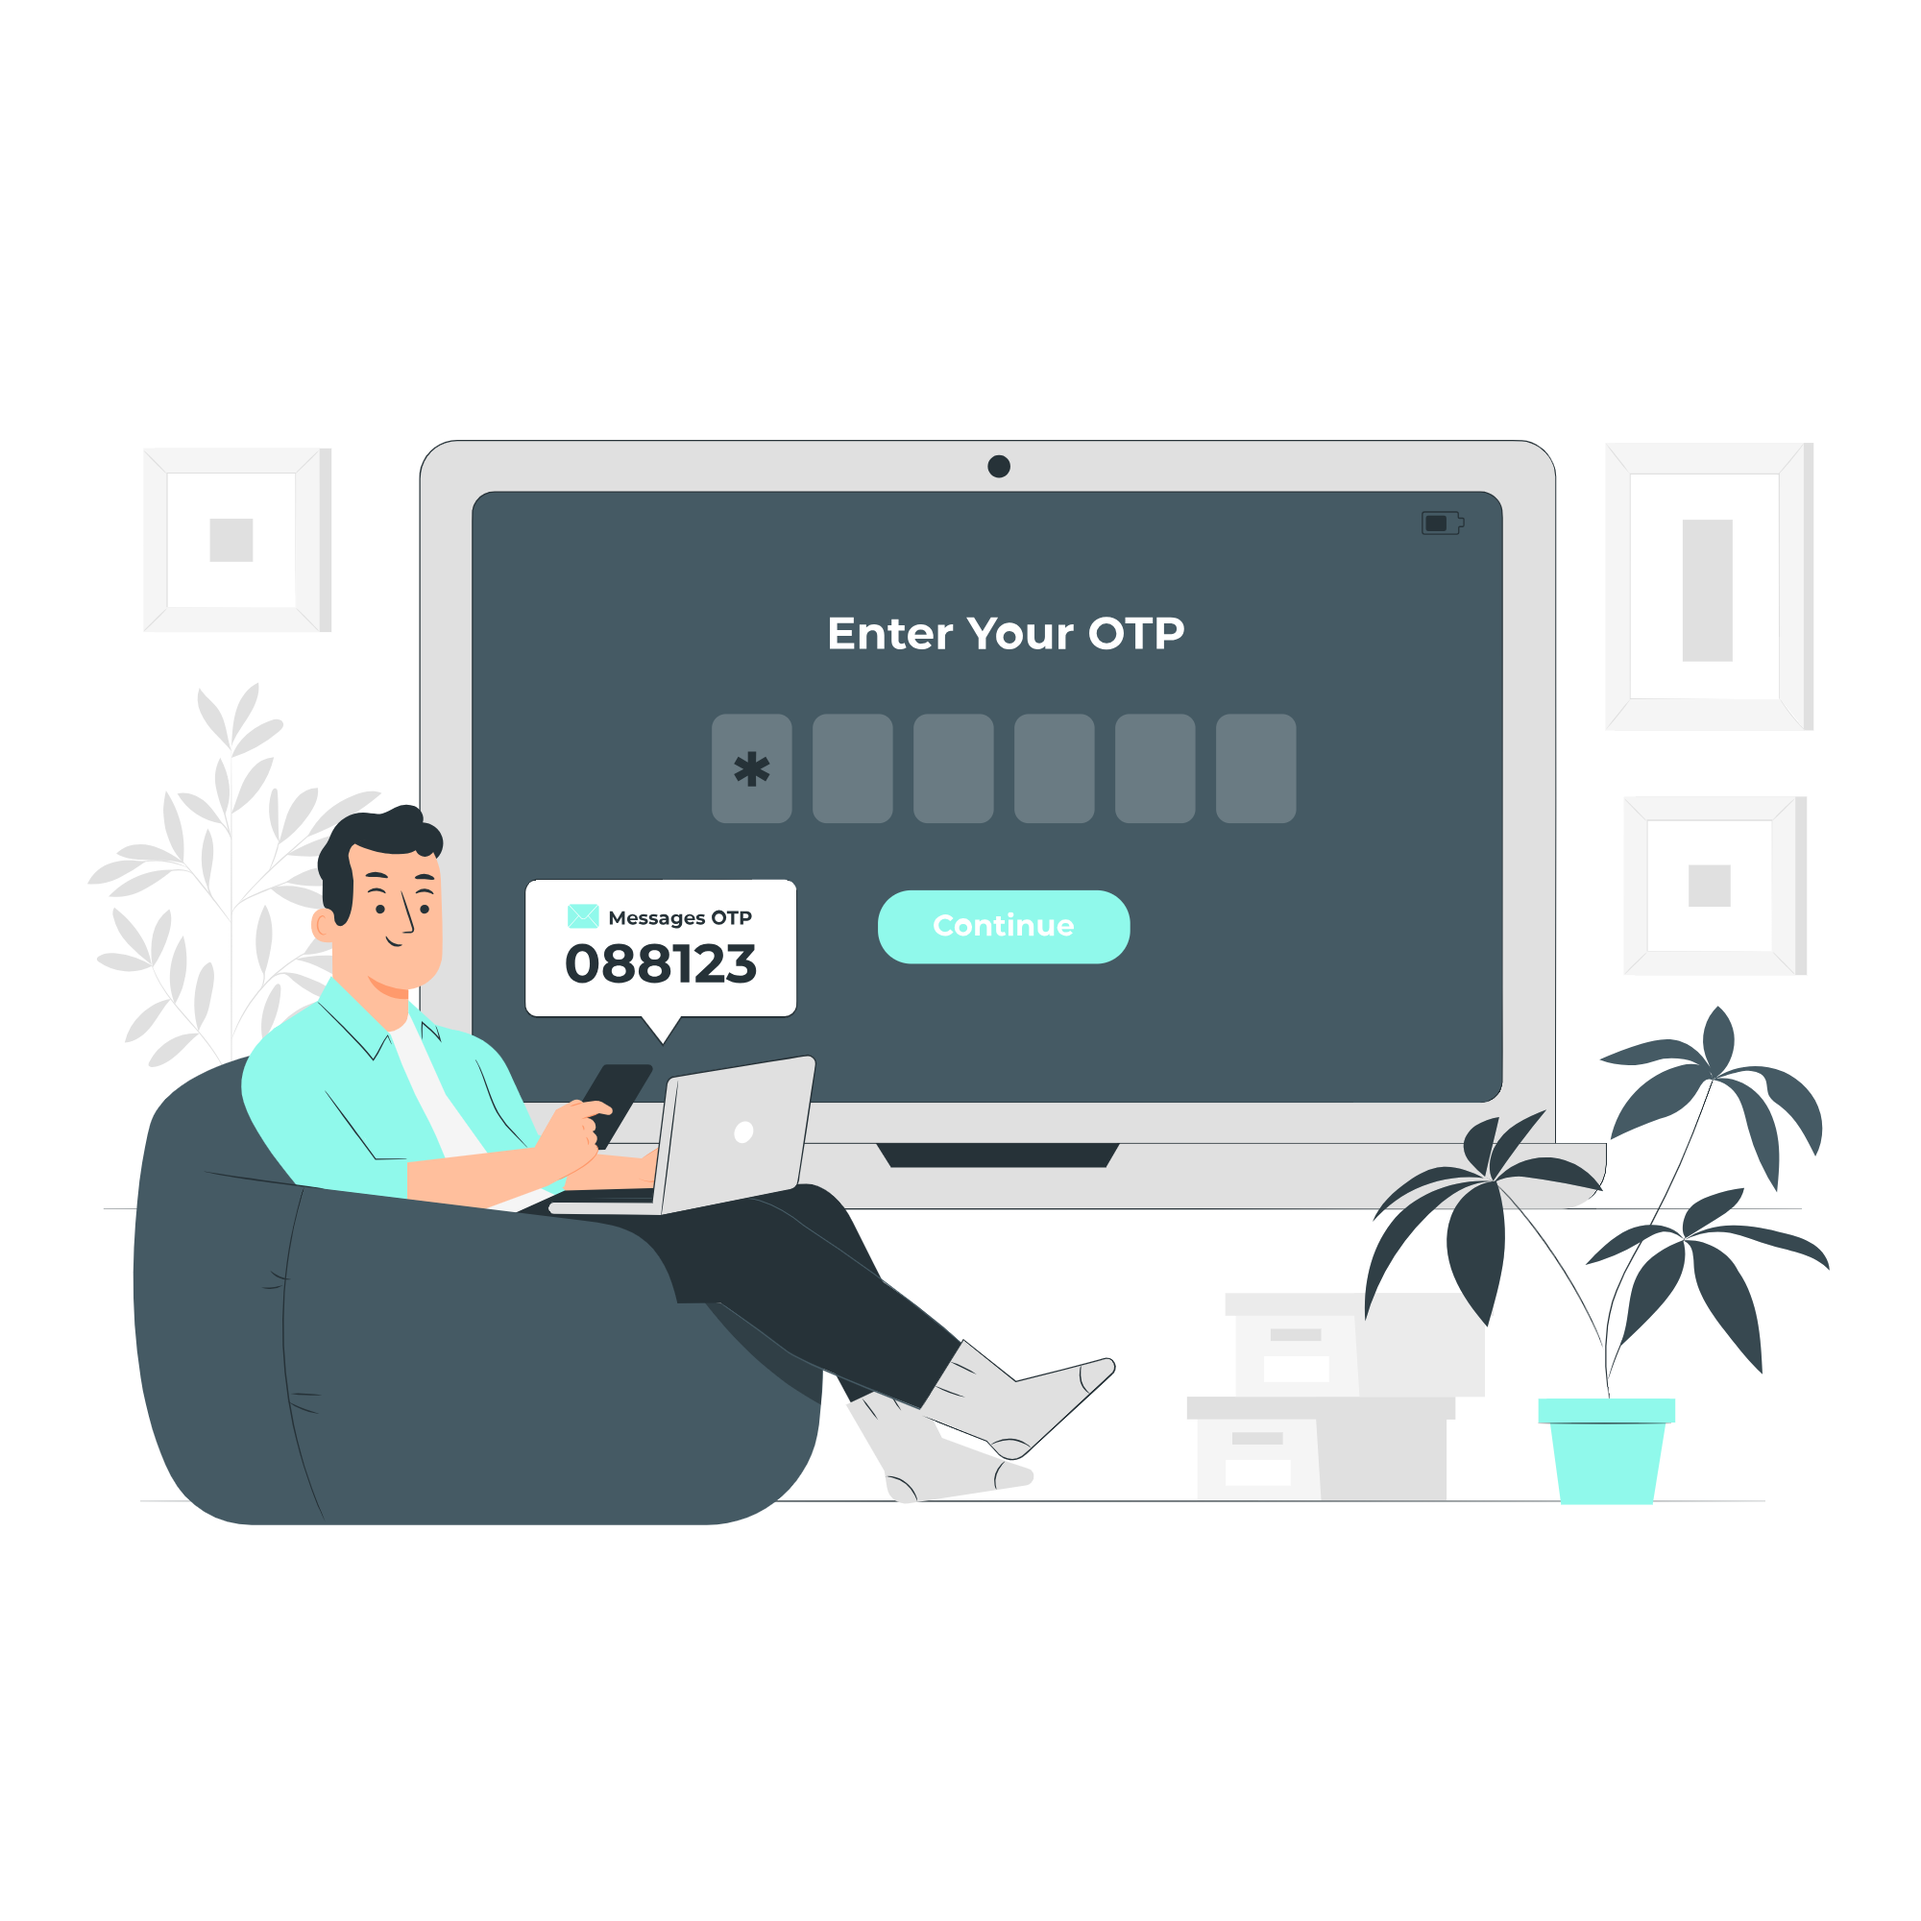
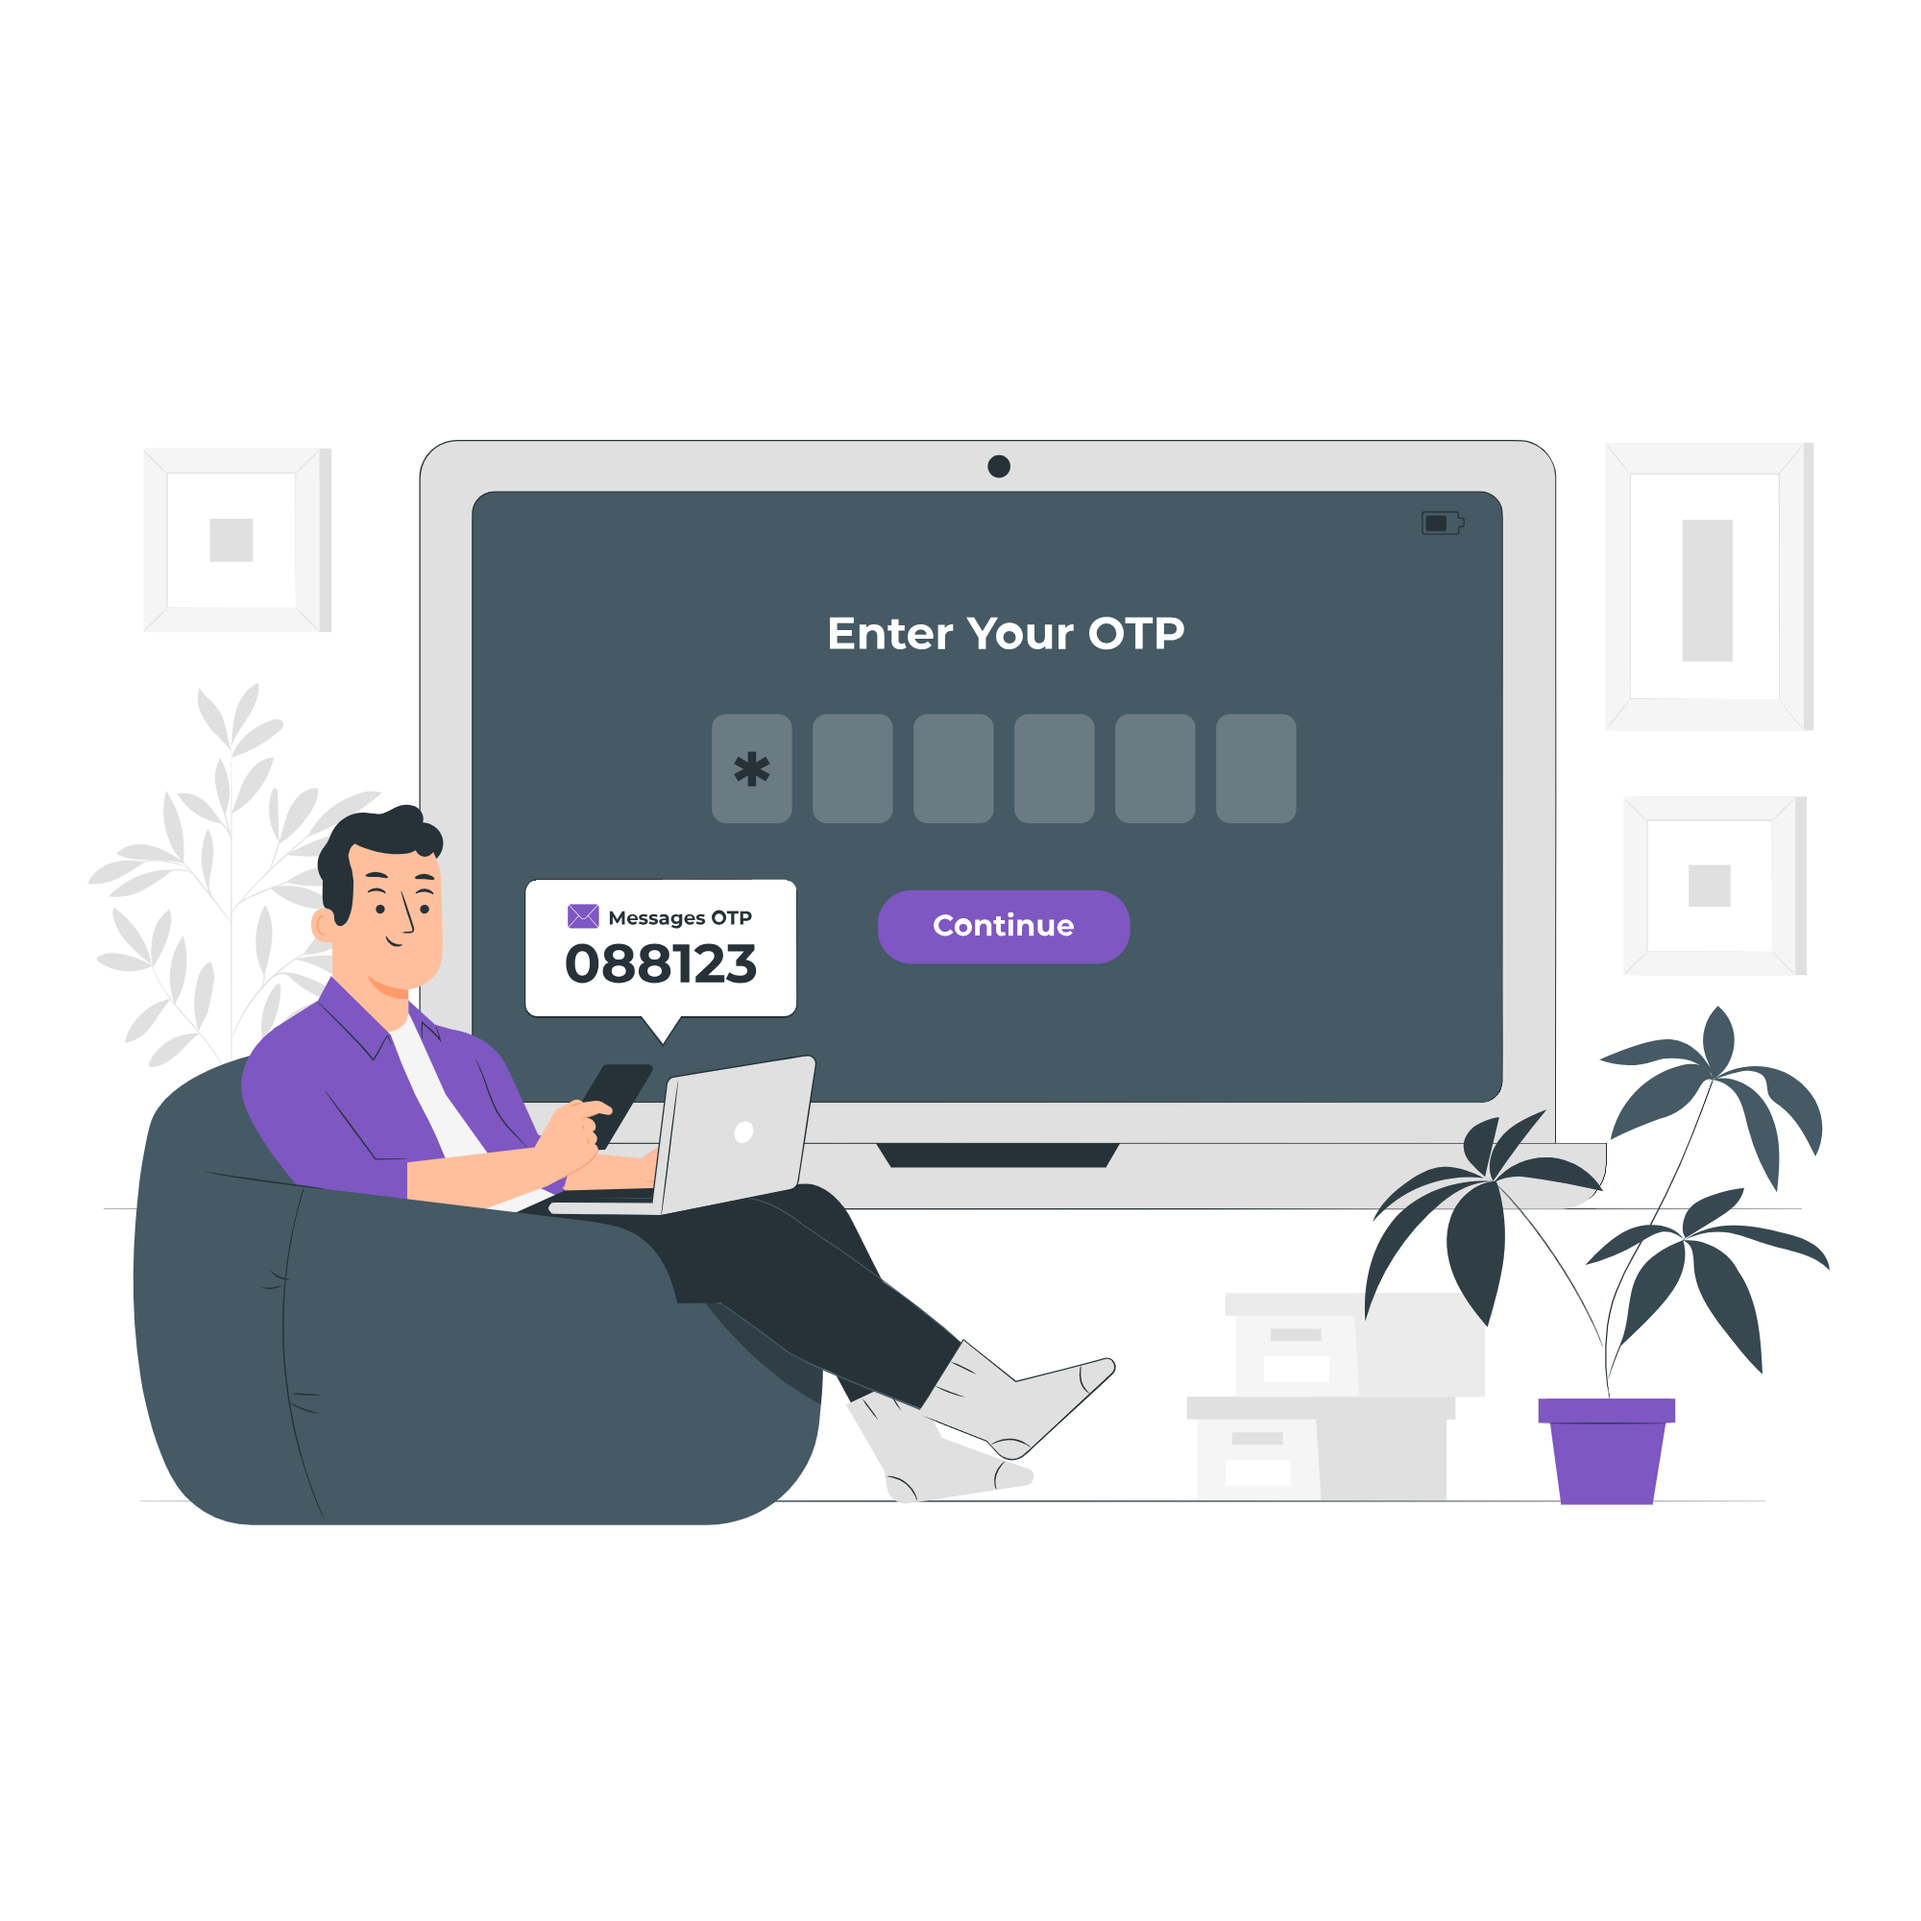
authentication pages ui has been updated

diff --git a/src/pages/auth/NewPassword/index.tsx b/src/pages/auth/NewPassword/index.tsx
@@ -19,7 +19,7 @@ import { useDispatch, useSelector } from 'react-redux';
 import { Link } from 'react-router-dom';
 import { z } from 'zod';
 
-import forgotpass from '../../../assets/imges/home/forgotPassword.png';
+import resetpass from '../../../assets/imges/home/resetpassword.png';
 
 const formSchema = z.object({
   email: z.string().email({ message: 'Enter a valid email address' })
@@ -27,7 +27,7 @@ const formSchema = z.object({
 
 type UserFormValue = z.infer<typeof formSchema>;
 
-export default function ForgotPassword() {
+export default function NewPassword() {
   const { loading, error } = useSelector((state: any) => state.auth);
   const router = useRouter();
   const dispatch = useDispatch<AppDispatch>();
@@ -50,17 +50,17 @@ export default function ForgotPassword() {
 
   return (
     <>
-      <div className="container pt-20  h-svh items-center justify-center bg-primary bg-purple-50 lg:max-w-none lg:px-0">
+      <div className="container py-10  h-svh items-center justify-center bg-primary bg-purple-50 lg:max-w-none lg:px-0">
         <div className='w-8/12 mx-auto shadow-2xl flex p-5'>
           <div>
             <img
-              src={forgotpass}
+              src={resetpass}
               alt="Forgot Password Illustration"
               width={350}
               height={200}
             />
           </div>
-          <div className="mx-auto flex w-full flex-col justify-center space-y-2 sm:w-[480px] lg:p-8">
+          <div className="mx-auto flex w-full flex-col justify-center space-y-2 sm:w-[480px] lg:p-6">
             <div className="mb-4 flex items-center justify-center">
               {/* <img src="/logo.png" alt="Logo" className="w-1/2" /> */}
               <h3 className="text-4xl font-bold text-supperagent">MultiPurpose</h3>
@@ -68,7 +68,7 @@ export default function ForgotPassword() {
             <Card className="p-6">
               <div className="mb-2 flex flex-col space-y-2 text-left">
                 <h1 className="text-md font-semibold tracking-tight">
-                  Forgot Password ?
+                  New Password 
                 </h1>
                 <p className="text-sm text-muted">
                   Enter your registered email and <br /> we will send you a link
@@ -77,18 +77,36 @@ export default function ForgotPassword() {
                 <Form {...form}>
                   <form
                     onSubmit={form.handleSubmit(onSubmit)}
-                    className="w-full space-y-2"
+                    className="w-full space-y-3"
                   >
                     <FormField
                       control={form.control}
                       name="email"
                       render={({ field }) => (
                         <FormItem>
-                          <FormLabel>Email</FormLabel>
+                          <FormLabel>Confirm Password</FormLabel>
                           <FormControl>
                             <Input
-                              type="email"
-                              placeholder="Enter your email..."
+                              type="password"
+                              placeholder="Confirm Password..."
+                              disabled={loading}
+                              {...field}
+                            />
+                          </FormControl>
+                          <FormMessage />
+                        </FormItem>
+                      )}
+                    />
+                    <FormField
+                      control={form.control}
+                      name="email"
+                      render={({ field }) => (
+                        <FormItem>
+                          <FormLabel>New Password</FormLabel>
+                          <FormControl>
+                            <Input
+                              type="password"
+                              placeholder="Enter New Password..."
                               disabled={loading}
                               {...field}
                             />
@@ -100,7 +118,7 @@ export default function ForgotPassword() {
 
                     <Button
                       disabled={loading}
-                      className="ml-auto w-full bg-supperagent text-white hover:bg-background"
+                      className="ml-auto w-full bg-supperagent text-white hover:bg-supperagent hover:bg-opacity-80"
                       type="submit"
                     >
                       Reset Password

diff --git a/src/pages/auth/otp/index.tsx b/src/pages/auth/otp/index.tsx
@@ -93,14 +93,14 @@ export default function Otp() {
 
   return (
     <>
-      <div className="container bg-cyan-100 py-4 h-svh flex-col items-center justify-center bg-primary lg:max-w-none lg:px-0">
-        <div className=" flex lg:w-9/12 gap-6 items-center mx-auto shadow-2xl bg-cyan-50 justify-center space-y-2 sm:w-[480px] lg:p-7">
+      <div className="container bg-purple-50 py-4 h-svh flex-col items-center justify-center bg-primary lg:max-w-none lg:px-0">
+        <div className=" flex lg:w-9/12 gap-6 items-center mx-auto shadow-2xl justify-center space-y-2 sm:w-[480px] lg:p-7">
           <div className="mb-4 flex items-center justify-center">
             <img src={OTP} alt="OTP" className="w-full" />            
           </div>
           <Card className="p-6">
             <div className="mb-2 flex flex-col space-y-2 text-left">
-              <h1 className="text-md font-semibold tracking-tight">
+              <h1 className="text-md font-semibold tracking-tight text-supperagent">
                 Verification Code
               </h1>
               <p className="text-sm text-muted">
@@ -132,7 +132,7 @@ export default function Otp() {
                     <Button
                       disabled={otp.some((digit) => digit === '')}
                       onClick={handleOtpSubmit}
-                      className="ml-auto mt-5 w-full bg-background text-white hover:bg-background"
+                      className="ml-auto mt-5 w-full bg-supperagent text-white hover:bg-background"
                       variant="outline"
                     >
                       Verify OTP
@@ -146,7 +146,7 @@ export default function Otp() {
               Don't have an account?{' '}
               <Link
                 to="/sign-up"
-                className="text-muted underline underline-offset-4"
+                className=" underline underline-offset-4 text-supperagent"
               >
                 Sign up
               </Link>

diff --git a/src/pages/ErrorPage/index.tsx b/src/pages/ErrorPage/index.tsx
@@ -4,13 +4,13 @@ import { Link } from 'react-router-dom';
 
 const ErrorPage = () => {
   return (
-    <div className=" flex">
+    <div className=" grid lg:grid-cols-2 grid-cols-1 gap-6 items-center w-10/12 mx-auto justify-around">
       <div>
-        <img src={errorPage} alt="" />
+        <img src={errorPage} alt="" className='w-full'/>
       </div>
-      <div>
-        <h1>OOPS! PAGE NOT FOUND</h1>
-        <Link to="/">Back To Home</Link>
+      <div className='ml-5'>
+        <h1 className='text-5xl font-bold mb-10 '> PAGE <br />  NOT FOUND</h1>
+        <Link to="/" className='bg-supperagent px-5 py-3 rounded-2xl font-bold text-white'>Back To Home</Link>
       </div>
     </div>
   );

diff --git a/src/routes/index.tsx b/src/routes/index.tsx
@@ -9,6 +9,7 @@ import Otp from '@/pages/auth/otp';
 import AdminLayout from '@/components/layout/admin-layout';
 import { DashboardPage } from '@/pages/Dashboard';
 import ErrorPage from '@/pages/ErrorPage/';
+import NewPassword from '@/pages/auth/NewPassword';
 
 const SignInPage = lazy(() => import('@/pages/auth/signin'));
 
@@ -58,11 +59,11 @@ export default function AppRouter() {
       index: true
     },
     
-    // {
-    //   path: '/new-password',
-    //   element: <NewPassword />,
-    //   index: true
-    // },
+    {
+      path: '/new-password',
+      element: <NewPassword />,
+      index: true
+    },
     {
       path: '/404',
       element: <ErrorPage />

diff --git a/src/pages/auth/signin/index.tsx b/src/pages/auth/signin/index.tsx
@@ -35,7 +35,7 @@ export default function SignInPage() {
           {/* Logo */}
           <div className="flex items-center gap-2 text-white">
             <Layers className="h-6 w-6" />
-            <span className="text-lg font-semibold">Recruitment</span>
+            <span className="text-lg font-semibold">MultiPurpose</span>
           </div>
 
           {/* Main Content */}
